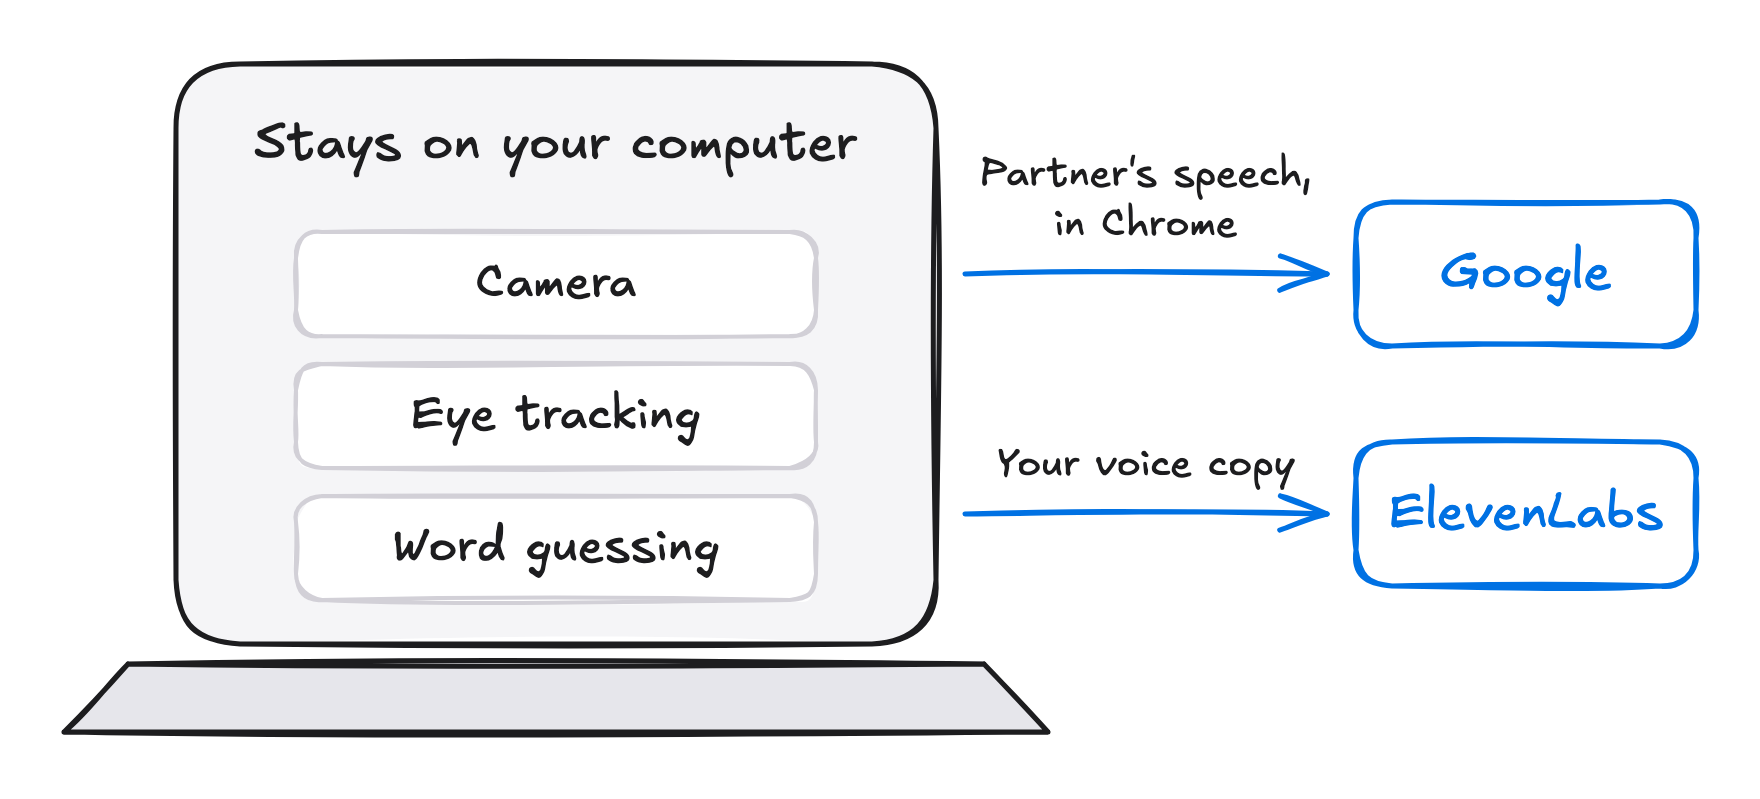
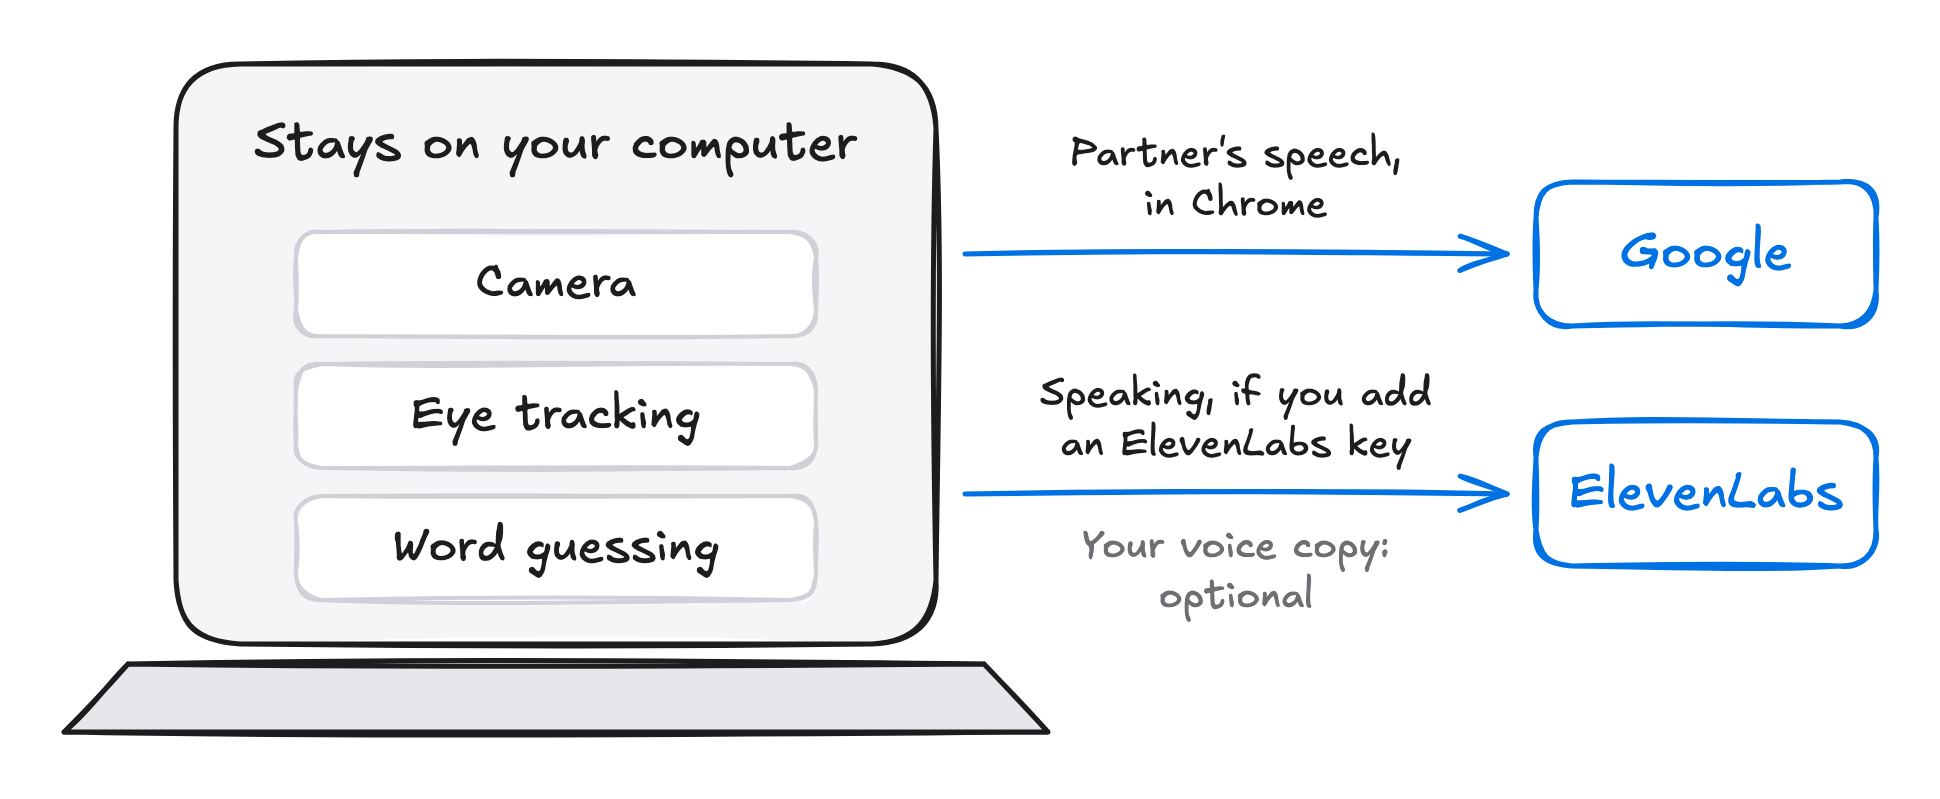
README: the copy of your own voice is optional; say who receives speech
The voice copy is now marked optional wherever it appears: the How it
works bullet, a caption under its illustration, the privacy diagram and
list, and Try it. The privacy section also said only the voice copy sent
text to ElevenLabs; with a key, the ready-made voice speaks through
ElevenLabs too, and without one Clarté uses the computer's own voice.

diff --git a/README.md b/README.md
@@ -1,6 +1,6 @@
 # Clarté
 
-**Clarté is for people who have two problems at once: they can no longer speak clearly, and they can't easily use their hands. It lets them say what they want to say. They spell with their eyes, confirm each choice with a small sound, and Clarté speaks the sentence aloud, in their own voice if they wish. All it needs is an ordinary laptop with a webcam and a microphone.**
+**Clarté is for people who have two problems at once: they can no longer speak clearly, and they can't easily use their hands. It lets them say what they want to say. They spell with their eyes, confirm each choice with a small sound, and Clarté speaks the sentence aloud in a ready-made voice or, if they choose, a copy of their own. All it needs is an ordinary laptop with a webcam and a microphone.**
 
 Made at natHacks 2026, in the Healthcare & Accessibility theme.
 
@@ -103,9 +103,9 @@ When the sentence is ready, Clarté says it aloud.
 Two more things help in a real conversation:
 
 - **Listen.** Clarté can turn what the other person says into text on the screen. It uses this to make better word guesses, and it offers a quick reply to greetings and thanks.
-- **Your own voice.** Clarté can make a copy of your voice from old recordings of you, from before your speech changed, or from about a minute of speaking today (Menu, then My voice). Until you choose a voice, it uses a ready-made one.
+- **Your own voice (optional).** Clarté speaks with a ready-made voice from the start, and you can keep it. If you would like, it can also make a copy of your own voice, from old recordings of you from before your speech changed, or from about a minute of speaking today (Menu, then My voice). You can skip this step completely.
 
-<p align="center"><img src="docs/media/readme/illustrations/own-voice.jpg" alt="A sound wave on an old phone becomes the same sound wave coming out of the laptop." width="480"></p>
+<p align="center"><img src="docs/media/readme/illustrations/own-voice.jpg" alt="Optional: a sound wave on an old phone becomes the same sound wave coming out of the laptop." width="480"><br><em>Optional. You can stay with the ready-made voice.</em></p>
 
 ## Why we made it this way
 
@@ -122,12 +122,13 @@ Two more things help in a real conversation:
 
 ## What stays on your computer
 
-<p align="center"><img src="docs/media/readme/diagrams/privacy.png" alt="Camera, eye tracking and word guessing stay on your computer. The partner's speech goes to Google in Chrome, and your voice copy goes to ElevenLabs." width="600"></p>
+<p align="center"><img src="docs/media/readme/diagrams/privacy.png" alt="Camera, eye tracking and word guessing stay on your computer. The partner's speech goes to Google in Chrome. If you add an ElevenLabs key, speaking goes to ElevenLabs; a copy of your own voice is optional." width="600"></p>
 
 - **The camera.** The images are used on your computer to work out where you are looking, and are not sent anywhere.
 - **Word guessing** happens on your computer.
 - **Listening to the other person.** In Google Chrome this uses Google's speech service, so that audio goes to Google, and Clarté shows "Via Google" while it does. If Google's service isn't available, for example without internet, the listening happens on your computer instead.
-- **Your own voice.** To make a copy of your voice, the recordings Clarté picks are sent to ElevenLabs, a voice company. After that, the text of each new phrase it speaks in your voice is sent too.
+- **Speaking.** Without an ElevenLabs key, Clarté speaks with your computer's own voice. If you add a key, it speaks through ElevenLabs, a voice company, so the text of each new phrase goes there, whichever voice you use.
+- **A copy of your own voice (optional).** Only if you choose to make one, the recordings Clarté picks are sent to ElevenLabs to make it.
 
 ## Try it
 
@@ -145,7 +146,7 @@ cd clarte
 
 The first time, this downloads everything Clarté needs (up to about 1.6 GB) and takes a few minutes. Clarté then opens in your browser at http://localhost:5200/. After that it opens in seconds, and word guessing is ready within about a minute. To stop it, press Ctrl+C in the terminal.
 
-- **Your own voice (optional).** Making a copy of your voice needs an [ElevenLabs](https://elevenlabs.io) account. Copy `.env.example` to a new file called `.env` and put your ElevenLabs key in it. Without a key, Clarté speaks with your computer's own voice.
+- **Voices (optional).** Clarté works as it is, speaking with your computer's own voice. If you want, an [ElevenLabs](https://elevenlabs.io) key gives it a ready-made ElevenLabs voice and lets you make a copy of your own voice. To add one, copy `.env.example` to a new file called `.env` and put your key in it.
 
 ## What's next
 
@@ -165,7 +166,7 @@ We will measure how many messages come out as the person meant them, how long ea
 | -- | -- |
 | [`app/`](app/DESIGN.md) | The Clarté app you see on screen |
 | [`engine/`](engine/README.md) | The word guesser |
-| [`voice/`](voice/README.md) | The part that makes and speaks your own voice |
+| [`voice/`](voice/README.md) | The part that speaks with ElevenLabs voices, and makes a copy of your own voice if you want one |
 | [`docs/`](docs/developers.md) | Technical details, design notes and research |
 | `skills/`, `AGENTS.md`, `CLAUDE.md` | Instructions for the AI coding assistants we used while building Clarté |
 
@@ -178,7 +179,7 @@ Clarté builds on other people's work:
 - **Eye tracking:** [WebEyeTrack](https://github.com/RedForestAI/WebEyeTrack) (MIT licence), which uses Google's [MediaPipe](https://ai.google.dev/edge/mediapipe) and [TensorFlow.js](https://www.tensorflow.org/js) (Apache 2.0).
 - **Word guessing:** [SmolLM2](https://huggingface.co/HuggingFaceTB/SmolLM2-135M) from Hugging Face (Apache 2.0), trained further by us on everyday conversation, including the [DailyDialog](http://yanran.li/dailydialog) dataset (for non-commercial use). Word lists come from [wordfreq](https://github.com/rspeer/wordfreq), from [Wiktionary](https://en.wiktionary.org) through [kaikki.org](https://kaikki.org) (CC BY-SA 4.0), and from the 2010 US Census surname list.
 - **Hearing the other person:** OpenAI's [Whisper](https://github.com/openai/whisper) (MIT licence) when listening happens on the computer, and Google's speech service in Chrome.
-- **Voice:** [ElevenLabs](https://elevenlabs.io) makes and speaks the voice copy, and [Resemblyzer](https://github.com/resemble-ai/Resemblyzer) checks that recordings are of the right person.
+- **Voice:** [ElevenLabs](https://elevenlabs.io) speaks the ready-made voice and, if you make one, your voice copy, and [Resemblyzer](https://github.com/resemble-ai/Resemblyzer) checks that recordings are of the right person.
 - **Sound tests:** recordings from the [CNVVE dataset](https://doi.org/10.18419/darus-3898) (CC BY 4.0).
 - **Pictures:** the illustrations were made with OpenAI's image generator, and the diagrams were drawn in [Excalidraw](https://excalidraw.com) (their editable files are in [`docs/media/readme/diagrams/`](docs/media/readme/diagrams)). The photos of public figures are credited under [You may know them](#you-may-know-them).
 - **Lettering:** the [Atkinson Hyperlegible Next](https://www.brailleinstitute.org/freefont/) typeface from the Braille Institute, designed to be easy to read.
